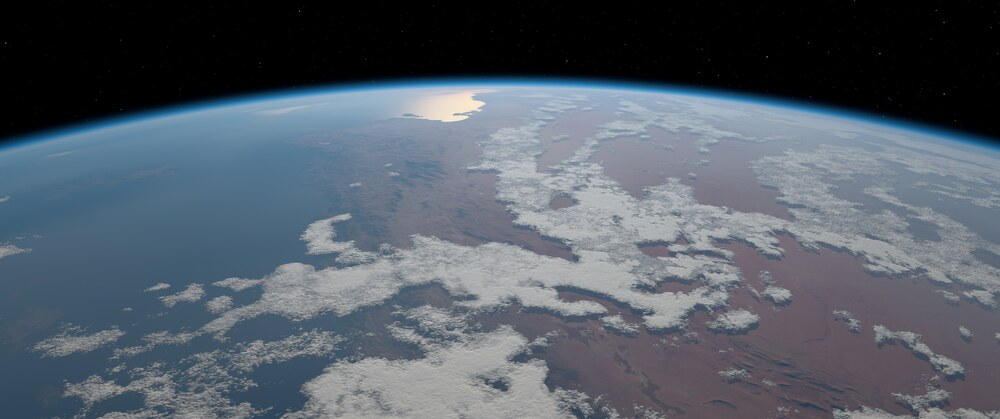
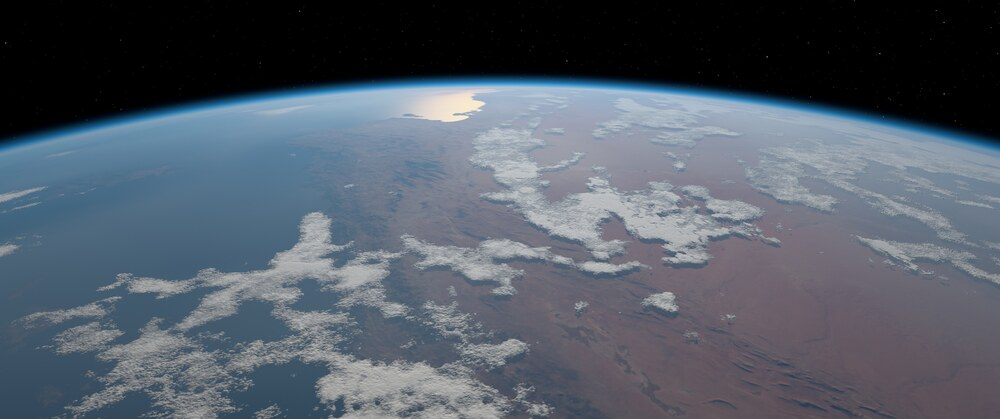
Planets through the same camera as the Earth; Saturn's ring shadow
The planet views had a path of their own: a painted Sun with gold corona
layers, a fixed exposure, a separate tone curve and no camera stage, so
the Sun and the light looked different from the Earth view.

- Every body renders in units of its own sunlight and goes through the
  camera stage: metered auto exposure, the same Sun (limb-darkened disc of
  its true apparent size, 68.6' from Mercury to 1.07' from Neptune, glow
  from the lens model), stars, bloom, film curve, grain and dither. The
  painted corona and the legacy tone path are gone.
- The photographic grade (contrast, saturation, colour rendering) stays
  off for the planets: their maps are processed photographs already.
- The rings cast their shadow on Saturn's globe.
- The meter takes the lit part of the body (pixels over 1/500 of its
  brightest percent): with a crescent the 85th percentile fell on the
  airless night side and the exposure opened until the crescent was a
  white blot (Mercury). A body change snaps the exposure.
- Only the body's globe hides the Sun on other bodies (the Earth's air
  reddened it at their limbs).

Planet previews re-rendered. 137 tests pass.

diff --git a/src/vulkan.rs b/src/vulkan.rs
@@ -643,7 +643,7 @@ impl ExposureController {
 /// Fraction of a luminous disc's light reaching the camera per channel:
 /// nine rays across the disc, each blocked by the ground or dimmed and
 /// reddened by the air (the Sun rising through the limb).
-fn disc_visibility(camera_km: [f64; 3], direction: [f64; 3], angular_radius: f64) -> [f64; 3] {
+fn disc_visibility(camera_km: [f64; 3], direction: [f64; 3], angular_radius: f64, air: bool) -> [f64; 3] {
     let d = {
         let length = direction.iter().map(|v| v * v).sum::<f64>().sqrt().max(1.0e-9);
         direction.map(|v| v / length)
@@ -660,7 +660,15 @@ fn disc_visibility(camera_km: [f64; 3], direction: [f64; 3], angular_radius: f64
     let mut count = 0.0;
     let mut add = |offset_u: f64, offset_v: f64| {
         let ray = normalize([0, 1, 2].map(|c| d[c] + u[c] * offset_u + v[c] * offset_v));
-        let t = crate::sky::ray_transmittance(camera_km, ray);
+        let t = if air {
+            crate::sky::ray_transmittance(camera_km, ray)
+        } else {
+            // Another body: only its globe hides the Sun.
+            let b = (0..3).map(|c| camera_km[c] * ray[c]).sum::<f64>();
+            let c = camera_km.iter().map(|v| v * v).sum::<f64>() - crate::sky::GROUND_KM * crate::sky::GROUND_KM;
+            let disc = b * b - c;
+            if disc > 0.0 && -b - disc.sqrt() > 0.0 { [0.0; 3] } else { [1.0; 3] }
+        };
         for c in 0..3 {
             sum[c] += t[c];
         }
@@ -679,6 +687,10 @@ impl Renderer {
     /// pipeline; Jupiter forces the procedural gas-giant path (there is no
     /// Jupiter virtual-texture bundle).
     pub fn set_body(&mut self, body: crate::body::Body) {
+        if body != self.current_body {
+            // A cut: the new body is metered from its first frames.
+            self.exposure.snap_frames = 8;
+        }
         self.current_body = body;
     }
 
@@ -2275,8 +2287,8 @@ impl Renderer {
         let earth = self.current_body == crate::body::Body::Earth;
         // No exposure cap for a Sun in frame: its glare is display-relative
         // (camera_settings), so the night side and its lights stay visible.
-        self.exposure.update(if earth { reading } else { None }, None, Instant::now());
-        needs_redraw |= earth && self.exposure.converging();
+        self.exposure.update(reading, None, Instant::now());
+        needs_redraw |= self.exposure.converging();
         let camera = camera_settings(uniforms, body_selector, &self.exposure, earth);
         for target in self.outputs.values_mut() {
             if target.format != pipeline.color_format {
@@ -2827,14 +2839,6 @@ impl Renderer {
 const SUN_GLARE: f64 = 0.12;
 
 fn camera_settings(uniforms: FrameUniforms, body_selector: f32, exposure: &ExposureController, earth: bool) -> CameraSettings {
-    if !earth {
-        // Other bodies keep their per-body presentation (earth.frag's own
-        // exposure and the legacy filmic curve).
-        return CameraSettings {
-            preexposure: 1.0,
-            post: PostFrame { tone: [1.0, 1.0, 0.0, 0.0], ..PostFrame::default() },
-        };
-    }
     let preexposure = exposure.ev.exp2();
     let frame = ShaderFrame::from_uniforms(uniforms, LogicalRect::default(), body_selector);
     let to_camera = |d: [f32; 4]| {
@@ -2845,7 +2849,7 @@ fn camera_settings(uniforms: FrameUniforms, body_selector: f32, exposure: &Expos
     let camera_km = uniforms.camera_position.map(|v| f64::from(v) * km_per_unit);
     let source = |view: [f32; 4], irradiance: f64| {
         let direction = [0, 1, 2].map(|c| f64::from(view[c]));
-        let visible = disc_visibility(camera_km, direction, f64::from(view[3]));
+        let visible = disc_visibility(camera_km, direction, f64::from(view[3]), earth);
         let scale = f64::from(preexposure) * std::f64::consts::PI * irradiance;
         [visible[0] * scale, visible[1] * scale, visible[2] * scale, 1.0].map(|v| v as f32)
     };
@@ -2856,12 +2860,17 @@ fn camera_settings(uniforms: FrameUniforms, body_selector: f32, exposure: &Expos
     let distance_ratio = 60.27 / f64::from(uniforms.moon_distance_earth_radii).max(1.0);
     let moon_irradiance = 2.5e-6 * phase_law * distance_ratio * distance_ratio;
     let solar_au = f64::from(uniforms.sun_distance_earth_radii) * crate::sky::GROUND_KM / 149_597_870.7;
-    let sun_irradiance = 1.0 / (solar_au * solar_au).max(1.0e-6);
+    // Other bodies are in units of their own sunlight (earth.frag).
+    let sun_irradiance = if earth { 1.0 / (solar_au * solar_au).max(1.0e-6) } else { 1.0 };
+    let moon_irradiance = if earth { moon_irradiance } else { 0.0 };
     let noise = 0.003 + 0.022 * ((exposure.ev - 7.0) / 8.0).clamp(0.0, 1.0);
     CameraSettings {
         preexposure,
         post: PostFrame {
-            tone: [exposure.contrast(), 0.0, (exposure.frame % 4096) as f32, noise],
+            // y: strength of the photographic grade. The planet maps are
+            // processed photographs already; grading them again turned Mars
+            // neon orange and Neptune cyan.
+            tone: [exposure.contrast(), if earth { 1.0 } else { 0.0 }, (exposure.frame % 4096) as f32, noise],
             sun: to_camera(frame.celestial_sun_view),
             // Like the Moon, the Sun is shown as the adapted eye sees it:
             // the disc saturates (stars_textured.frag) and its glare carries
@@ -6762,16 +6771,13 @@ mod tests {
     }
 
     #[test]
-    fn textured_sun_uses_layered_reference_corona() {
+    fn every_body_shows_the_same_physical_sun() {
         let shader = include_str!("../shaders/stars_textured.frag");
         // Camera-relative Sun/Moon geometry arrives precomputed per frame.
         assert!(shader.contains("frame.celestial_sun_view.xyz"));
         assert!(shader.contains("frame.celestial_sun_view.w"));
         assert!(shader.contains("frame.celestial_moon_view.xyz"));
         assert!(shader.contains("frame.celestial_moon_view.w"));
-        // The corona stack stays gated behind the precomputed 40-radius
-        // threshold instead of running on every fragment.
-        assert!(shader.contains("frame.moon_body_z.w"));
         // Eclipse geometry still derives scene-space positions from the
         // Earth-fixed directions inside the moon-disc branch.
         assert!(shader.contains("frame.celestial_distances.x"));
@@ -6779,27 +6785,18 @@ mod tests {
         assert!(shader.contains("sun_position"));
         assert!(shader.contains("moon_position"));
         assert!(shader.contains("sun_from_moon"));
-        assert!(shader.contains("limb_darkening"));
-        assert!(shader.contains("sun_aureole"));
-        assert!(shader.contains("sun_shoulder"));
-        assert!(shader.contains("sun_core * vec3(1.55, 1.45, 1.28)"));
-        assert!(shader.contains("sun_inner_corona * vec3(0.55, 0.30, 0.08)"));
-         // Wide halo kept tight and faint neutral-warm so a Sun in-frame does
-         // not paint a muddy vignette across the night sky; deep sky returns
-         // to black (the old 35/14-radius gold stack read as brown fog).
-         assert!(shader.contains("sun_aureole * vec3(0.0032, 0.0028, 0.0024)"));
-         assert!(shader.contains("sun_outer_corona * vec3(0.022, 0.016, 0.010)"));
-        assert!(shader.contains("asset_to_equator_of_date"));
-        // Sidereal de-rotation uses the precomputed sine/cosine pair.
-        assert!(shader.contains("frame.moon_body_x.w"));
-        assert!(shader.contains("frame.moon_body_y.w"));
+        // One photosphere (limb-darkened disc, glow from the lens model) for
+        // the Earth and the planets: no painted corona, no per-body branch.
+        assert!(shader.contains("const float mean_radiance = 46200.0;"));
+        assert!(!shader.contains("sun_aureole"));
+        assert!(!shader.contains("sun_inner_corona"));
+        assert!(!shader.contains("physical"));
         assert!(shader.contains("frame.moon_body_x.xyz"));
         assert!(shader.contains("eclipse_visibility"));
         assert!(shader.contains("earthshine"));
         // Lunar opposition surge and directional bluish earthshine.
         assert!(shader.contains("phase_surge"));
         assert!(shader.contains("earth_facing"));
-        assert!(!shader.contains("pow(max(sun_cosine, 0.0), 18000.0)"));
     }
 
     #[test]

diff --git a/src/vulkan/post.rs b/src/vulkan/post.rs
@@ -18,7 +18,7 @@ const MAX_TARGETS: u32 = 32;
 #[repr(C)]
 #[derive(Clone, Copy, Debug, Default)]
 pub(super) struct PostFrame {
-    /// x: log-space contrast of the grade, y: mode (0 camera, 1 legacy
+    /// x: log-space contrast of the grade, y: grade strength (1 Earth, 0 other bodies
     /// planet presentation), z: frame seed, w: sensor noise at mid-grey.
     pub tone: [f32; 4],
     /// tan half-FOV x/y, optical centre x/y in canvas units.
@@ -601,6 +601,13 @@ impl HdrTarget {
             return None;
         }
         samples.sort_by(|a, b| a.0.total_cmp(&b.0));
+        // Meter the lit part: an airless night side is black, and with a
+        // crescent it took the 85th percentile, so the exposure opened up
+        // until the crescent was a white blot. Anything under 1/500 of the
+        // brightest percent is not part of the subject.
+        let reference = samples[(samples.len() * 99 / 100).min(samples.len() - 1)].0;
+        samples.retain(|sample| sample.0 >= reference * 2.0e-3);
+        let total: f32 = samples.iter().map(|(_, w)| w).sum();
         let mut accumulated = 0.0;
         let mut key = samples.last().map_or(1.0, |s| s.0);
         for (luminance, weight) in &samples {

diff --git a/docs/PHYSICS.md b/docs/PHYSICS.md
@@ -133,10 +133,18 @@ function for the airless Moon and Mercury, Minnaert limb darkening for Mars
 (k = 0.75), Venus (0.80), Uranus/Neptune (0.85) and Jupiter/Saturn (0.90).
 Saturn's rings are a plane with NASA/JPL radial boundaries, modelled optical
 depths, gaps, and the planet's oblate shadow with a finite-Sun penumbra.
-Exposure adapts to each body (as a camera would). Uranus and Neptune are
+The rings cast their shadow on Saturn's globe (the slant optical depth of
+the ring plane toward the Sun).
+
+Every body goes through the same camera as the Earth: radiance in units of
+the body's own sunlight (a white Lambertian surface under its zenith Sun is
+1), the same metered auto exposure, the same Sun (a limb-darkened disc of
+its true apparent size, 68.6' from Mercury to 1.07' from Neptune, with the
+lens's glow), the same stars, bloom, film curve, grain and dither. The
+photographic grade (contrast, saturation, colour rendering) is left off:
+the planet maps are processed photographs already. Uranus and Neptune are
 almost featureless, and their maps' faint gradients are below what BC1
-blocks can carry: Uranus is read four mips down and Neptune two, and the
-output is dithered so the smooth limb darkening does not band in 8 bits.
+blocks can carry: Uranus is read four mips down and Neptune two.
 
 ## Stars
 
@@ -172,8 +180,9 @@ a full-frame camera behind an ISS window (`shaders/post.frag`):
   level local-horizontal attitude), 78° horizontal lens, pitched so the
   horizon sits ~20 % from the top, 20 fps while riding (the globe animates
   lightning and aurora at 8 fps and otherwise redraws only when it moves).
-- **Auto exposure:** metered on a 64 px mip: the 85th-percentile Earth
-  luminance, or a highlight rule when bright sunlit sky covers more than 3 %
+- **Auto exposure:** metered on a 64 px mip: the 85th-percentile luminance
+  of the lit part of the body (anything under 1/500 of its brightest
+  percent is left out, so a crescent is exposed for the crescent), or a highlight rule when bright sunlit sky covers more than 3 %
   of the frame (the sunrise band seen from the ISS, held ~1.5 stops over
   the key so it keeps its colours). Daylight stays near a "sunny 16"
   exposure: a low Sun or open ocean is lifted by 0.6 of its deficit, at
